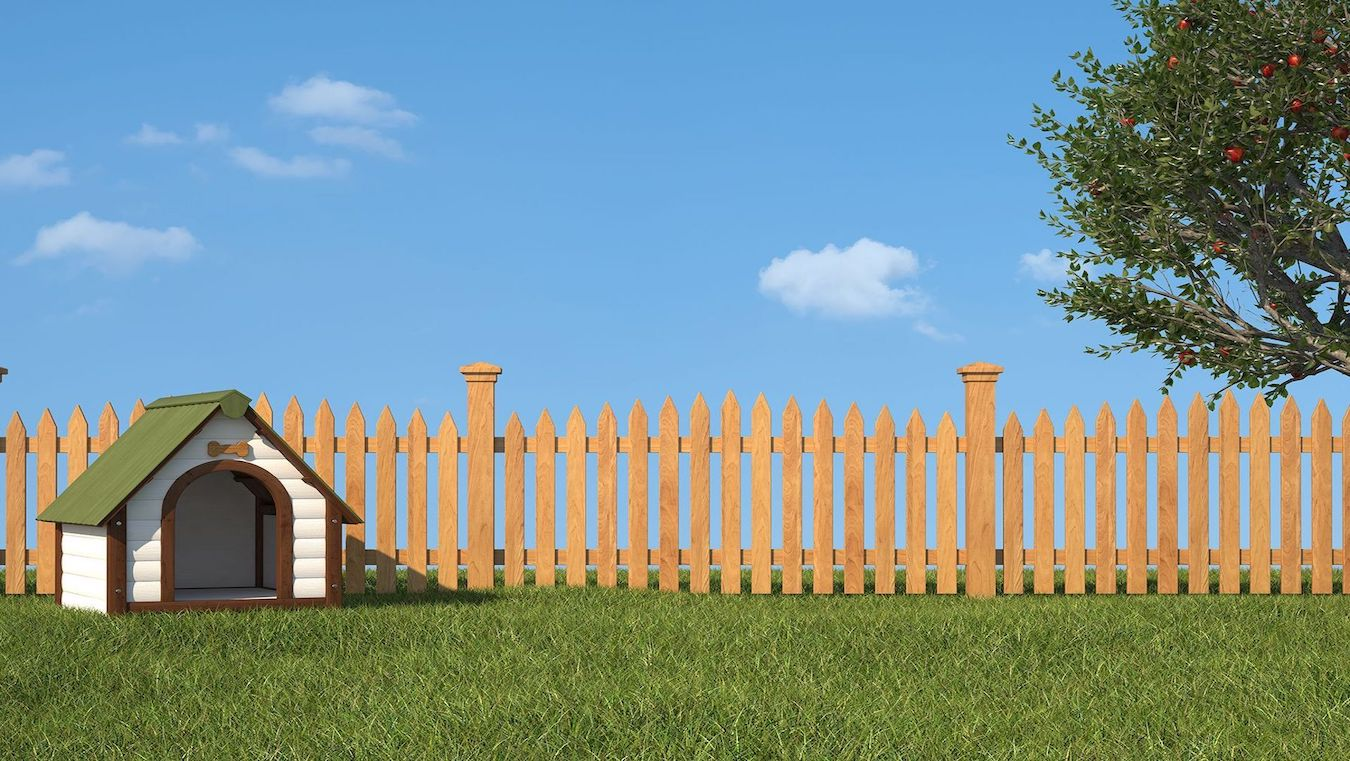
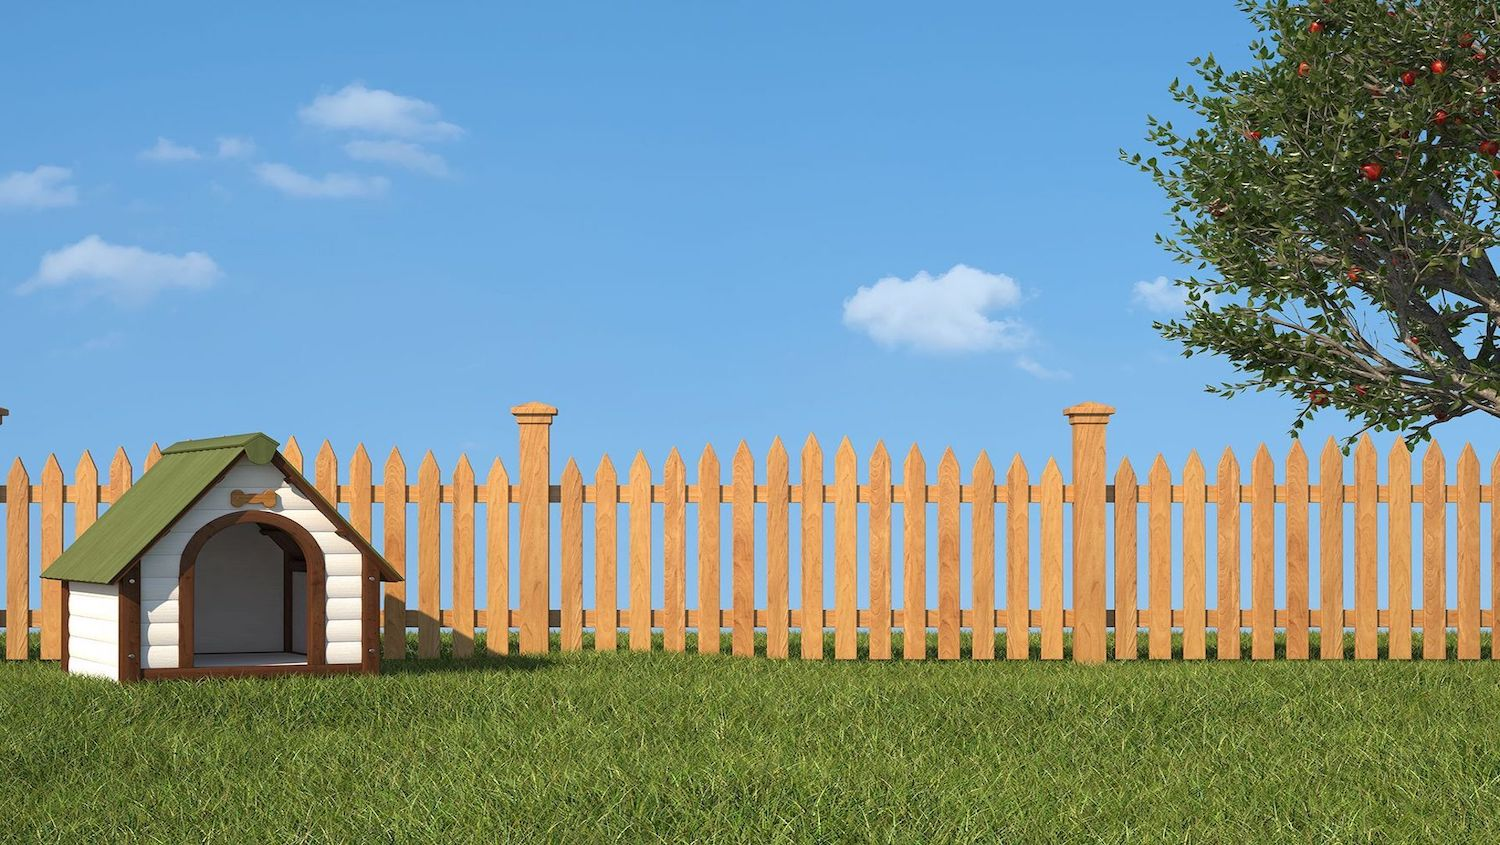
added the boxes to the home page

diff --git a/client/src/components/HomePage/HomePage.js b/client/src/components/HomePage/HomePage.js
@@ -1,9 +1,45 @@
-import React from 'react'
+import React from "react";
+import { Card } from 'react-bootstrap';
 
 export default function HomePage() {
-    return (
-        <div className="home">
-            
-        </div>
-    )
+  return (
+    <div className="home">
+      <Card style={{ width: "18rem" }}>
+        <Card.Img variant="top" src="holder.js/100px180" />
+        <Card.Body>
+          <Card.Title>Card Title</Card.Title>
+        </Card.Body>
+      </Card>
+      <Card style={{ width: "18rem" }}>
+        <Card.Img variant="top" src="holder.js/100px180" />
+        <Card.Body>
+          <Card.Title>Card Title</Card.Title>
+        </Card.Body>
+      </Card>
+      <Card style={{ width: "18rem" }}>
+        <Card.Img variant="top" src="holder.js/100px180" />
+        <Card.Body>
+          <Card.Title>Card Title</Card.Title>
+        </Card.Body>
+      </Card>
+      <Card style={{ width: "18rem" }}>
+        <Card.Img variant="top" src="holder.js/100px180" />
+        <Card.Body>
+          <Card.Title>Card Title</Card.Title>
+        </Card.Body>
+      </Card>
+      <Card style={{ width: "18rem" }}>
+        <Card.Img variant="top" src="holder.js/100px180" />
+        <Card.Body>
+          <Card.Title>Card Title</Card.Title>
+        </Card.Body>
+      </Card>
+      <Card style={{ width: "18rem" }}>
+        <Card.Img variant="top" src="holder.js/100px180" />
+        <Card.Body>
+          <Card.Title>Card Title</Card.Title>
+        </Card.Body>
+      </Card>
+    </div>
+  );
 }

diff --git a/client/src/App.css b/client/src/App.css
@@ -2,14 +2,16 @@
   background-image: url("./images/DogByCacti.jpg");
   height: 100vh;
   background-size: center;
-  background-position: center;
+  background-position: center center;
   background-attachment: fixed;
+  background-repeat: no-repeat;
 }
 
 .home {
   background-image: url("./images/DoghouseImage.jpg");
   height: 100vh;
-  background-position: center;
+  background-size: center;
+  background-position: center center;
   background-attachment: fixed;
   background-repeat: no-repeat;
 }

diff --git a/client/src/components/HomePage/HomePage.css b/client/src/components/HomePage/HomePage.css
@@ -1,0 +1,7 @@
+.card-deck {
+    display: flex;
+    align-items: center;
+    justify-content: center;
+    width: 100%; 
+    height: 100%; 
+}
